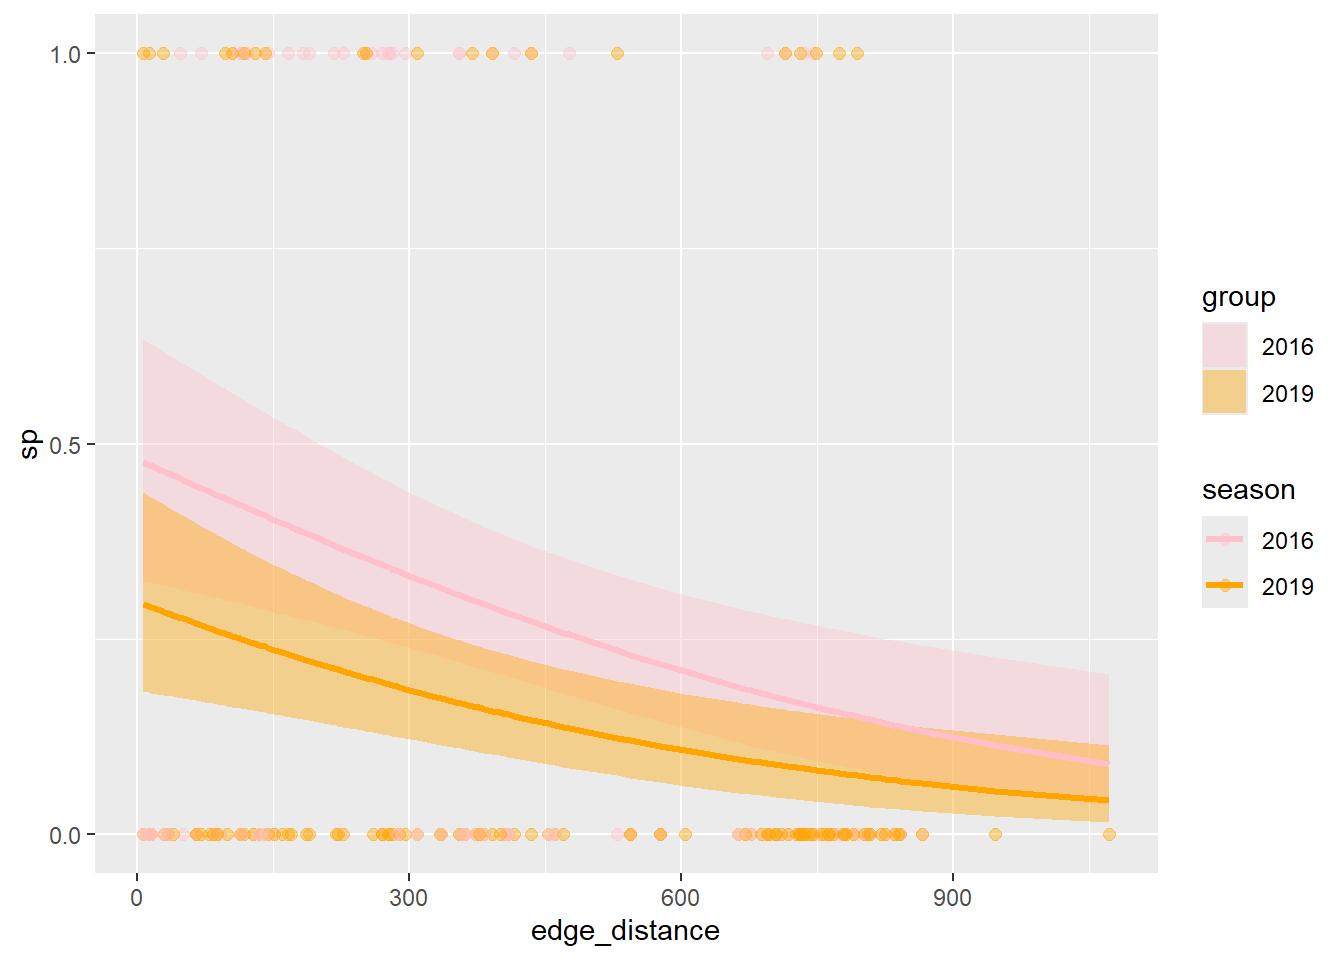
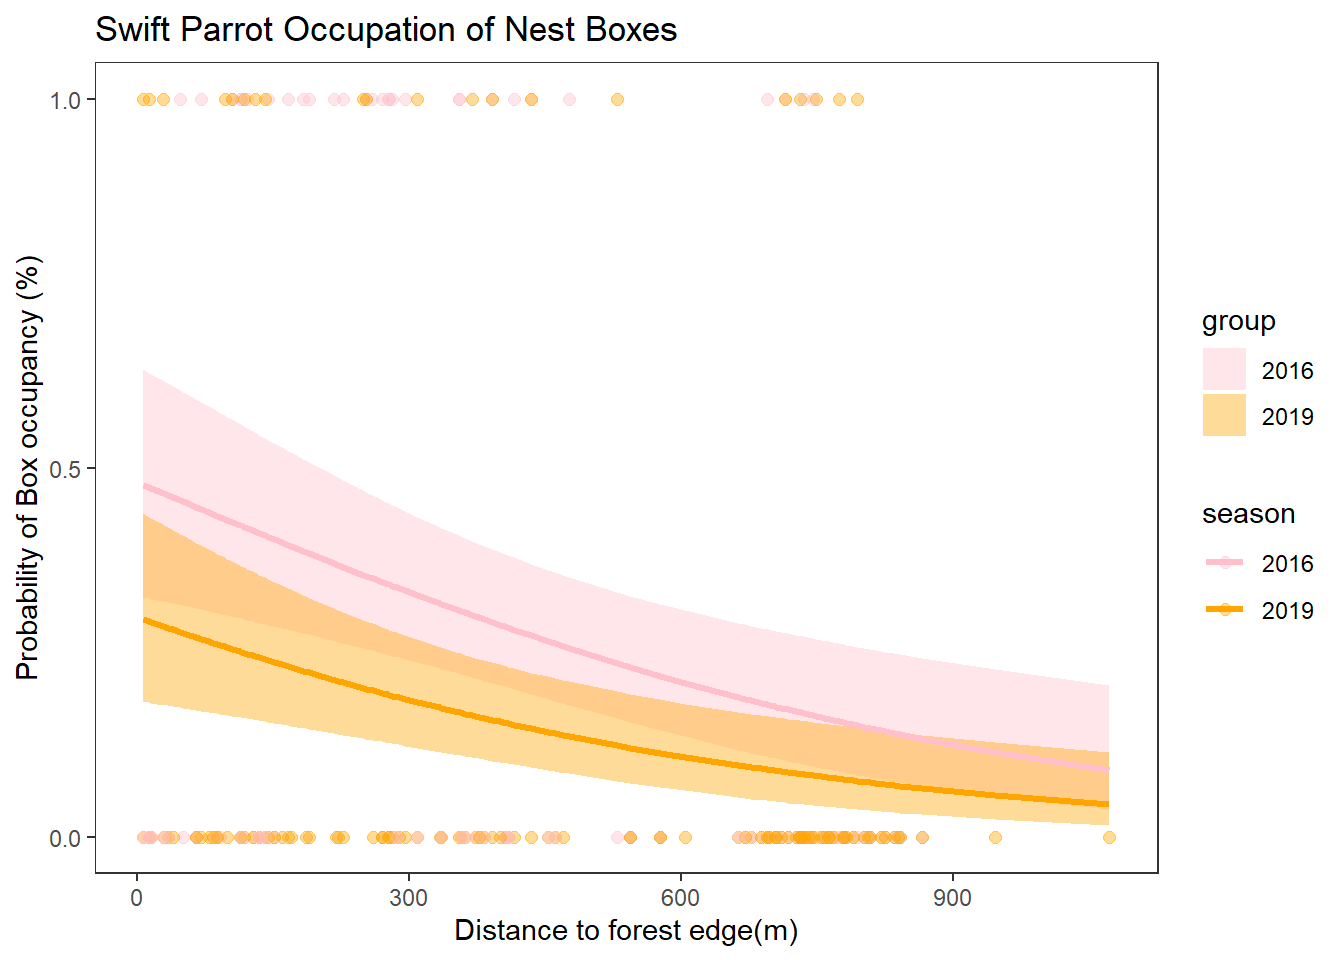
Finalizing assignment and deleting the unused dataset

diff --git a/code/spring_2025_final.html b/code/spring_2025_final.html
@@ -9,7 +9,7 @@
 <meta name="author" content="Arantza Lira">
 <meta name="dcterms.date" content="2025-06-09">
 
-<title>spring_2025_final</title>
+<title>Spring 2025 Final</title>
 <style>
 code{white-space: pre-wrap;}
 span.smallcaps{font-variant: small-caps;}
@@ -103,6 +103,8 @@ pre > code.sourceCode > span > a:first-child::before { text-decoration: underlin
   <li><a href="#g." id="toc-g." class="nav-link" data-scroll-target="#g.">g.</a></li>
   <li><a href="#h." id="toc-h." class="nav-link" data-scroll-target="#h.">h.</a></li>
   <li><a href="#i." id="toc-i." class="nav-link" data-scroll-target="#i.">i.</a></li>
+  <li><a href="#j." id="toc-j." class="nav-link" data-scroll-target="#j.">j.</a></li>
+  <li><a href="#k." id="toc-k." class="nav-link" data-scroll-target="#k.">k.</a></li>
   </ul></li>
   <li><a href="#problem-4" id="toc-problem-4" class="nav-link" data-scroll-target="#problem-4">Problem 4</a>
   <ul class="collapse">
@@ -115,7 +117,7 @@ pre > code.sourceCode > span > a:first-child::before { text-decoration: underlin
 
 <header id="title-block-header" class="quarto-title-block default">
 <div class="quarto-title">
-<h1 class="title">spring_2025_final</h1>
+<h1 class="title">Spring 2025 Final</h1>
 </div>
 
 
@@ -208,11 +210,11 @@ pre > code.sourceCode > span > a:first-child::before { text-decoration: underlin
 <pre><code># A tibble: 5 × 3
   year  month mean_monthly_sst
   &lt;fct&gt; &lt;ord&gt;            &lt;dbl&gt;
-1 2018  Apr               12.8
-2 2023  Nov               16.8
-3 2022  Aug               17.5
-4 2023  Aug               18.5
-5 2023  Feb               13  </code></pre>
+1 2022  Nov               15  
+2 2019  Feb               14.1
+3 2021  Oct               16.5
+4 2021  May               14.4
+5 2019  Apr               13.7</code></pre>
 </div>
 <div class="sourceCode cell-code" id="cb5"><pre class="sourceCode r code-with-copy"><code class="sourceCode r"><span id="cb5-1"><a href="#cb5-1" aria-hidden="true" tabindex="-1"></a><span class="co">#will not display only 5 rows if grouped</span></span>
 <span id="cb5-2"><a href="#cb5-2" aria-hidden="true" tabindex="-1"></a></span>
@@ -461,8 +463,17 @@ model_4  2 229.6716</code></pre>
 <span id="cb16-27"><a href="#cb16-27" aria-hidden="true" tabindex="-1"></a>                             <span class="st">"2019"</span> <span class="ot">=</span> <span class="st">"orange"</span>)) <span class="sc">+</span> <span class="co">#ribbon color</span></span>
 <span id="cb16-28"><a href="#cb16-28" aria-hidden="true" tabindex="-1"></a><span class="fu">scale_color_manual</span>(<span class="at">values =</span> <span class="fu">c</span>(<span class="st">"2016"</span> <span class="ot">=</span> <span class="st">"pink"</span>,</span>
 <span id="cb16-29"><a href="#cb16-29" aria-hidden="true" tabindex="-1"></a>                             <span class="st">"2019"</span> <span class="ot">=</span> <span class="st">"orange"</span>))<span class="sc">+</span></span>
-<span id="cb16-30"><a href="#cb16-30" aria-hidden="true" tabindex="-1"></a>  <span class="fu">scale_y_continuous</span>(<span class="at">limits =</span> <span class="fu">c</span>(<span class="dv">0</span>,<span class="dv">1</span>),</span>
-<span id="cb16-31"><a href="#cb16-31" aria-hidden="true" tabindex="-1"></a>                     <span class="at">breaks =</span> <span class="fu">c</span>(<span class="dv">0</span>,<span class="fl">0.5</span>,<span class="dv">1</span>)) </span></code><button title="Copy to Clipboard" class="code-copy-button"><i class="bi"></i></button></pre></div>
+<span id="cb16-30"><a href="#cb16-30" aria-hidden="true" tabindex="-1"></a><span class="fu">scale_y_continuous</span>(<span class="at">limits =</span> <span class="fu">c</span>(<span class="dv">0</span>,<span class="dv">1</span>),</span>
+<span id="cb16-31"><a href="#cb16-31" aria-hidden="true" tabindex="-1"></a>                     <span class="at">breaks =</span> <span class="fu">c</span>(<span class="dv">0</span>,<span class="fl">0.5</span>,<span class="dv">1</span>)) <span class="sc">+</span></span>
+<span id="cb16-32"><a href="#cb16-32" aria-hidden="true" tabindex="-1"></a>  <span class="co">#editing asthetics</span></span>
+<span id="cb16-33"><a href="#cb16-33" aria-hidden="true" tabindex="-1"></a>  <span class="fu">theme_bw</span>()<span class="sc">+</span></span>
+<span id="cb16-34"><a href="#cb16-34" aria-hidden="true" tabindex="-1"></a>    <span class="fu">theme</span>(</span>
+<span id="cb16-35"><a href="#cb16-35" aria-hidden="true" tabindex="-1"></a>      <span class="at">panel.grid =</span> <span class="fu">element_blank</span>()) <span class="sc">+</span></span>
+<span id="cb16-36"><a href="#cb16-36" aria-hidden="true" tabindex="-1"></a>  <span class="fu">labs</span>(</span>
+<span id="cb16-37"><a href="#cb16-37" aria-hidden="true" tabindex="-1"></a>    <span class="at">title =</span> <span class="st">"Swift Parrot Occupation of Nest Boxes"</span>,</span>
+<span id="cb16-38"><a href="#cb16-38" aria-hidden="true" tabindex="-1"></a>    <span class="at">x =</span> <span class="st">"Distance to forest edge(m)"</span>,</span>
+<span id="cb16-39"><a href="#cb16-39" aria-hidden="true" tabindex="-1"></a>    <span class="at">y =</span> <span class="st">"Probability of Box occupancy (%)"</span></span>
+<span id="cb16-40"><a href="#cb16-40" aria-hidden="true" tabindex="-1"></a>  )</span></code><button title="Copy to Clipboard" class="code-copy-button"><i class="bi"></i></button></pre></div>
 <div class="cell-output-display">
 <div>
 <figure class="figure">
@@ -474,16 +485,76 @@ model_4  2 229.6716</code></pre>
 </section>
 <section id="i." class="level2">
 <h2 class="anchored" data-anchor-id="i.">i.</h2>
+<p><strong>Figure 1.Swift Parrots prefer nest boxes near the forest edge.</strong>Data obtained from DRYAD “Do nest boxes breed the target species or its competitors? A case study of a critically endangered bird.” Circle points represent observed binary occupancy data for Swift Parrots (2016: n = 104, 2019: n = 123) used to build the model. Circle points show predicted occupancy probabilities from a saturated generalized linear model, with lines connecting them. The ribbons represent 95% confidence intervals around the predictions. Colors indicate season(purple = 2016, blue = 2019).</p>
+</section>
+<section id="j." class="level2">
+<h2 class="anchored" data-anchor-id="j.">j.</h2>
+<div class="cell">
+<div class="sourceCode cell-code" id="cb17"><pre class="sourceCode r code-with-copy"><code class="sourceCode r"><span id="cb17-1"><a href="#cb17-1" aria-hidden="true" tabindex="-1"></a><span class="co">#calculating model predictions</span></span>
+<span id="cb17-2"><a href="#cb17-2" aria-hidden="true" tabindex="-1"></a></span>
+<span id="cb17-3"><a href="#cb17-3" aria-hidden="true" tabindex="-1"></a><span class="co"># for 0 distance</span></span>
+<span id="cb17-4"><a href="#cb17-4" aria-hidden="true" tabindex="-1"></a><span class="fu">ggpredict</span>(model_2,<span class="co">#function uses 95% CI for model_2</span></span>
+<span id="cb17-5"><a href="#cb17-5" aria-hidden="true" tabindex="-1"></a>          <span class="at">terms =</span> <span class="fu">c</span>(<span class="st">"edge_distance[0]"</span>, <span class="st">"season"</span>))</span></code><button title="Copy to Clipboard" class="code-copy-button"><i class="bi"></i></button></pre></div>
+<div class="cell-output cell-output-stdout">
+<pre><code># Predicted probabilities of sp
+
+season: 2016
+
+edge_distance | Predicted |     95% CI
+--------------------------------------
+            0 |      0.48 | 0.33, 0.64
+
+season: 2019
+
+edge_distance | Predicted |     95% CI
+--------------------------------------
+            0 |      0.30 | 0.18, 0.44</code></pre>
+</div>
+<div class="sourceCode cell-code" id="cb19"><pre class="sourceCode r code-with-copy"><code class="sourceCode r"><span id="cb19-1"><a href="#cb19-1" aria-hidden="true" tabindex="-1"></a><span class="co"># for 900 distance</span></span>
+<span id="cb19-2"><a href="#cb19-2" aria-hidden="true" tabindex="-1"></a><span class="fu">ggpredict</span>(model_2,<span class="co">#function uses 95% CI for model_2</span></span>
+<span id="cb19-3"><a href="#cb19-3" aria-hidden="true" tabindex="-1"></a>          <span class="at">terms =</span> <span class="fu">c</span>(<span class="st">"edge_distance[900]"</span>, <span class="st">"season"</span>))</span></code><button title="Copy to Clipboard" class="code-copy-button"><i class="bi"></i></button></pre></div>
+<div class="cell-output cell-output-stdout">
+<pre><code># Predicted probabilities of sp
+
+season: 2016
+
+edge_distance | Predicted |     95% CI
+--------------------------------------
+          900 |      0.12 | 0.06, 0.24
+
+season: 2019
+
+edge_distance | Predicted |     95% CI
+--------------------------------------
+          900 |      0.06 | 0.03, 0.13</code></pre>
+</div>
+</div>
+</section>
+<section id="k." class="level2">
+<h2 class="anchored" data-anchor-id="k.">k.</h2>
+<p>Based on the model prediction calculations and figure 1 for nest box occupancy at 0 meters from the forest edge and 900 meters from the forest edge, it is demonstrated that Swift Parrots prefer nesting sites at the edge of the forest. For 0m from the edge of the forest, there is a 48% probability that a nest box is occupied in comparison to 900m from the edge of the of the forest where there is a 12% probability that a nest box is occupied. The previous values are collected form the 2016 season and are higher than the 2019 season due to this bird species not returning to previous nesting sites of previous years and also from getting out competed by other common starlings and Tree Martins.</p>
 </section>
 </section>
 <section id="problem-4" class="level1">
 <h1>Problem 4</h1>
 <section id="a.-3" class="level2">
 <h2 class="anchored" data-anchor-id="a.-3">a.</h2>
-<p>How are the visualizations different from each other in the way you have represented your data? * My data in homework 2 is physically separated by fast and slow music recordings in box plots while my data in homework 3 is mixed together in a circular diagram only distinguished by the type of color used for each data point. My data in homework 2 took a more statistical approach while homework 3 took an artistic approach and used softer shapes and doodles to represent information.</p>
-<p>What similarities do you see between all your visualizations? * The similarities I see between my visualizations is that each had limited data points as they were both in the early drafting stages. They both still used pink to represent fast music bike rides and blue/green colors for slow music bike rides. Another big similarity that stood out was that there were more recorded observations for fast music bike rides in comparison to slow music bike rides.</p>
-<p>What patterns (e.g.&nbsp;differences in means/counts/proportions/medians, trends through time, relationships between variables) do you see in each visualization?A re these different between visualizations? If so, why? If not, why not? * Aside form there being a trend of more fast music bike rides recorded, it can be seen that fast music bike rides have some of the highest recorder biking speeds (mph) across both visualizations. This is seen as bigger circles in homework 3 and in higher data points in the box plots y-axis(above 13 mph). Another pattern that can be seen in homework 3 is that I mainly biked past noon(denoted by orange dots around data point observations). These observed patterns are different between visualizations because the artistic visualization in homework 3 fits more data into a singular image (time, music type, wind presence, biking speed) than the limited data information in homework 2 (music type, biking speed).</p>
-<p>What kinds of feedback did you get during week 9 in workshop or from the instructors? How did you implement or try those suggestions? If you tried and kept those suggestions, explain how and why; if not, explain why not. * I was unable to attend week 9 workshop but the feedback i received in week 10</p>
+<p>How are the visualizations different from each other in the way you have represented your data?</p>
+<ul>
+<li>My data in homework 2 is physically separated by fast and slow music recordings in box plots while my data in homework 3 is mixed together in a circular diagram only distinguished by the type of color used for each data point. My data in homework 2 took a more statistical approach while homework 3 took an artistic approach and used softer shapes and doodles to represent information.</li>
+</ul>
+<p>What similarities do you see between all your visualizations?</p>
+<ul>
+<li>The similarities I see between my visualizations is that each had limited data points as they were both in the early drafting stages. They both still used pink to represent fast music bike rides and blue/green colors for slow music bike rides. Another big similarity that stood out was that there were more recorded observations for fast music bike rides in comparison to slow music bike rides.</li>
+</ul>
+<p>What patterns (e.g.&nbsp;differences in means/counts/proportions/medians, trends through time, relationships between variables) do you see in each visualization?A re these different between visualizations? If so, why? If not, why not?</p>
+<ul>
+<li>Aside form there being a trend of more fast music bike rides recorded, it can be seen that fast music bike rides have some of the highest recorder biking speeds (mph) across both visualizations.This is seen as bigger circles in homework 3 and in higher data points in the box plots y-axis(above 13 mph). Another pattern that can be seen in homework 3 is that I mainly biked past noon(denoted by orange dots around data point observations).These observed patterns are different between visualizations because the artistic visualization in homework 3 fits more data into a singular image (time, music type, wind presence, biking speed) than the limited data information in homework 2 (music type, biking speed).</li>
+</ul>
+<p>What kinds of feedback did you get during week 9 in workshop or from the instructors? How did you implement or try those suggestions? If you tried and kept those suggestions, explain how and why; if not, explain why not.</p>
+<ul>
+<li>I was unable to attend week 9 workshop but the feedback i received in week 10 discussed the visually appealing choice of making my visualization resemble a bike wheel with miniature bike wheels within it. My classmates also liked that the data was organized into days and that the symbols were intuitive to understand.The own adjustments I made when creating the final piece was to change the sizing of my data points to ensure they wouldn’t look too crowded and adding a clear legend on a side instead of having it spread out in the paper.</li>
+</ul>
 </section>
 </section>
 
